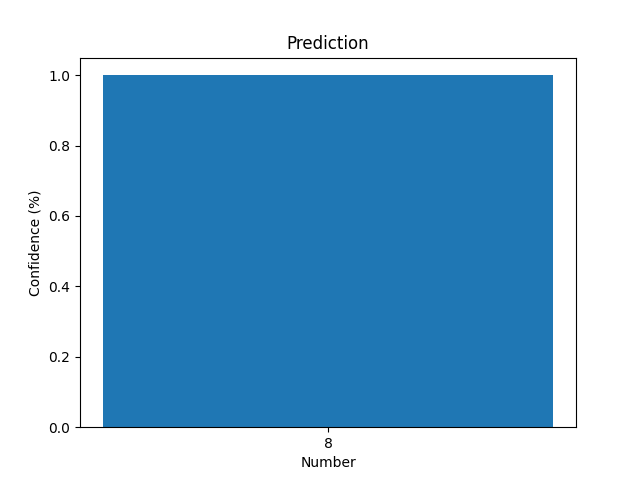
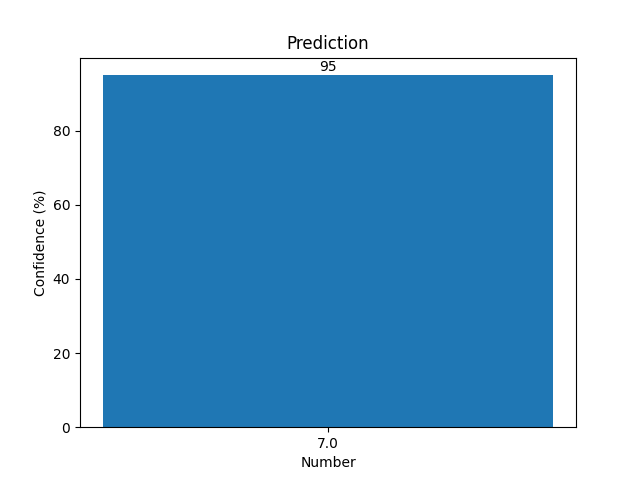
aaaaa

diff --git a/model.py b/model.py
@@ -66,8 +66,11 @@ import matplotlib.pyplot as plt
 
 def plot(prediction, confidence):
     # Create a bar plot
+
+    prediction = float(prediction)
+    confidence = int(float(confidence)*100)
     fig, ax = plt.subplots()
-    ax.bar([prediction], [confidence], align='center', width=0.1)  # Adjust the width of the bar
+    ax.bar([prediction], [confidence], align='center', width=0.5)  # Adjust the width of the bar
 
     # Set the title and labels
     ax.set_title('Prediction')
